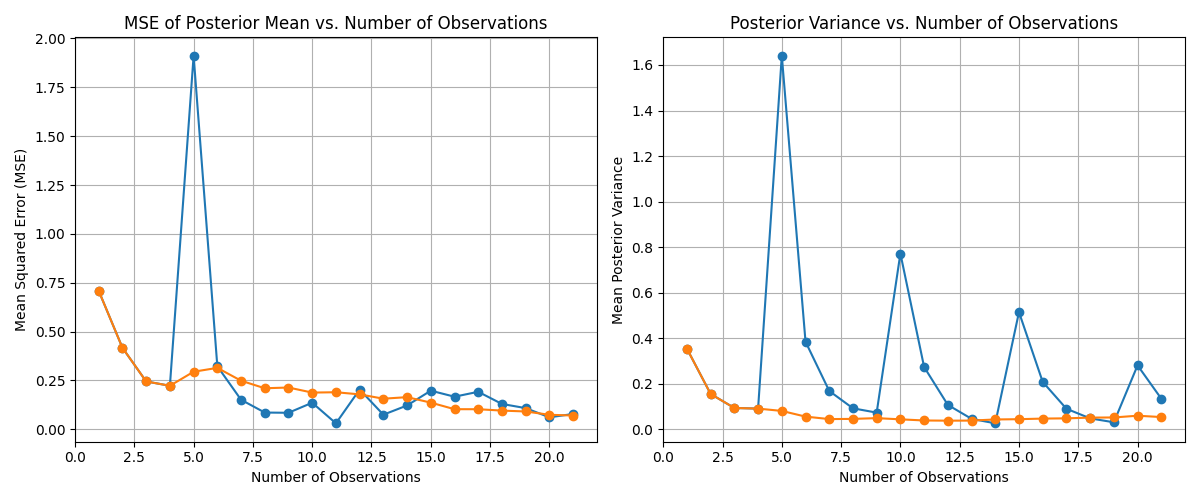
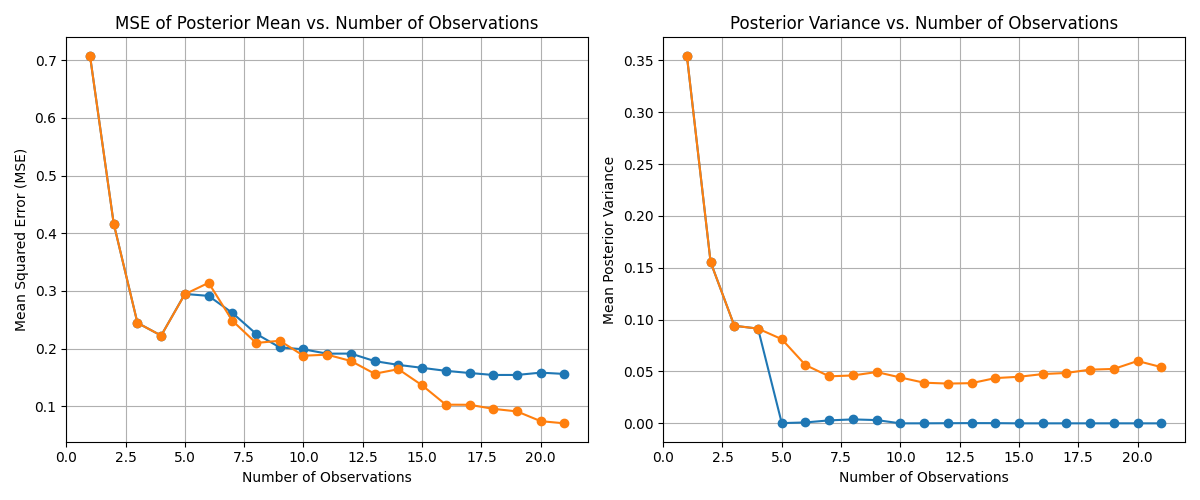
play

diff --git a/bayes/posterior.py b/bayes/posterior.py
@@ -3,6 +3,7 @@ import jax.numpy as jnp
 from jax import grad, jit, vmap, value_and_grad
 from functools import partial
 # jax.config.update("jax_debug_nans", True)
+# jax.config.update('jax_disable_jit', True)
 
 import flax.linen as nn
 import optax
@@ -12,6 +13,7 @@ from sinterp.interpolants import (
     Interpolator, 
     OneSidedLinear)
 from sinterp.stochasticfield import OneSidedField
+from sinterp.losses import make_loss_b
 from flow import flow
 from bayes.distribution import Gaussian, FlowDistribution
 from sinterp.couplings import EMDCoupling
@@ -125,21 +127,20 @@ class FlowBasedPosterior(FlowDistribution):
         # our bayesian update
         return s_prior_t + guidance_strength * clipped_s_likelihood_1
 
-    def get_current_flow(self):
+    def get_current_flow(self, params, use_prior=False):
         """
         Constructs the flow object with the appropriate velocity field.
         If observations are present, it uses a guided velocity field.
         """
-        if not self.observation_buffer:
+        if (not self.observation_buffer) or use_prior:
             # Unconditional case: just use the model's learned velocity b
-            b_velocity_fn = lambda x, t: self.model.get_velocity_b(self.vel_params, x, t)
+            b_velocity_fn = lambda x, t: self.model.get_velocity_b(params, x, t)
         else:
             # Guided case: construct the guided velocity b_guided
             total_log_likelihood_grad_fn, y_data = self.build_total_log_likelihood_and_grad(self.observation_buffer)
 
             def b_guided_velocity_fn(x, t):
                 # For sampling, we always use the current, live parameters
-                params = self.vel_params
                 
                 # Get the deterministic part of the velocity, v(t,x)
                 v_velocity = self.model.get_velocity_v(params, x, t)
@@ -162,15 +163,17 @@ class FlowBasedPosterior(FlowDistribution):
         f = flow.Flow(b_velocity_fn, self.n_steps)
         return f
 
-    def sample(self, key, x0_samples=None):
-        f = self.get_current_flow()
+    def sample(self, key, x0_samples=None, params=None, use_prior=False):
+        if params is None:
+            params = self.vel_params
+        f = self.get_current_flow(params, use_prior)
         if x0_samples is None:
             x0_samples = self.base_distribution.sample(key)
         x1_samples = f.forward(x0_samples)
         return x1_samples
-    
+
     def log_prob(self, x1):
-        f = self.get_current_flow()
+        f = self.get_current_flow(self.vel_params)
         x0 = f.backward(x1)
         log_p_x0 = self.base_distribution.log_prob(x0)
         log_p_x1, _ = f.push_forward_log_prob(log_p_x0, x0)
@@ -192,31 +195,38 @@ class FlowBasedPosterior(FlowDistribution):
         # Use frozen parameters for calculating the target
         frozen_params = jax.lax.stop_gradient(self.vel_params)
 
+        # def loss_fn(vel_params, x0_batch, x1_batch, z_batch, t_batch, y_data_arg):
+        #     """
+        #     We are not doing stochastic interpolation training as usual.
+        #     We simply want to force the current score to include the observed data.
+        #     To Bayesian update via posterior_score = prior_score + likelihood_score.  
+        #     """
+
+        #     # alternative ways to do this.
+        #     # step in direction of likelihood. but also say within a trust region?
+            
+        #     xt_batch = vmap(self.interpolator)(x0_batch, x1_batch, z_batch, t_batch)
+            
+        #     # The score predicted by the current trainable parameters
+        #     pred_score = vmap(self.model.get_score_s, in_axes=(None, 0, 0))(vel_params, xt_batch, t_batch)
+
+        #     # The target score is now calculated cleanly using our helper method
+        #     # We use the frozen_params here to define a stable target.
+        #     target_score = vmap(self._get_target_score, in_axes=(None, 0, 0, None, None, None))(
+        #         frozen_params, xt_batch, t_batch, total_log_likelihood_grad_fn, y_data_arg, guidance_strength
+        #     )
+            
+        #     # The loss is the difference between the predicted score and the (fixed) target score
+        #     return jnp.mean((pred_score - jax.lax.stop_gradient(target_score))**2)
+
+        loss_b = make_loss_b(self.interpolator, self.model.get_velocity_v)
         def loss_fn(vel_params, x0_batch, x1_batch, z_batch, t_batch, y_data_arg):
             """
-            We are not doing stochastic interpolation training as usual.
-            We simply want to force the current score to include the observed data.
-            To Bayesian update via posterior_score = prior_score + likelihood_score.  
+            We can sample from the posterior using our non-parametric estimate.
+            We want to match our current prior flow to this non-parametric posterior.
             """
+            return jnp.mean(vmap(loss_b, in_axes=(None, 0, 0, 0, 0))(vel_params, x0_batch, x1_batch, z_batch, t_batch))
 
-            # alternative ways to do this.
-            # step in direction of likelihood. but also say within a trust region?
-            
-            xt_batch = vmap(self.interpolator)(x0_batch, x1_batch, z_batch, t_batch)
-            
-            # The score predicted by the current trainable parameters
-            pred_score = vmap(self.model.get_score_s, in_axes=(None, 0, 0))(vel_params, xt_batch, t_batch)
-
-            # The target score is now calculated cleanly using our helper method
-            # We use the frozen_params here to define a stable target.
-            target_score = vmap(self._get_target_score, in_axes=(None, 0, 0, None, None, None))(
-                frozen_params, xt_batch, t_batch, total_log_likelihood_grad_fn, y_data_arg, guidance_strength
-            )
-            
-            # The loss is the difference between the predicted score and the (fixed) target score
-            return jnp.mean((pred_score - jax.lax.stop_gradient(target_score))**2)
-
-        # The train_step and training loop remain the same...
         @jit
         def train_step(vel_params, opt, x0, x1, z, t, y_data_arg):
             (loss, (g,)) = value_and_grad(loss_fn, argnums=(0,))(vel_params, x0, x1, z, t, y_data_arg)
@@ -227,15 +237,19 @@ class FlowBasedPosterior(FlowDistribution):
 
         for step in range(self.num_train_steps):
             # ... (batch creation logic) ...
-            # use our own flow to couple the distributions
             batch_x0 = jax.random.normal(self.key_manager.split(), shape=(batch_size, self.dim))
-            batch_x1 = vmap(self.sample, in_axes=(None, 0))(self.key_manager.split(), batch_x0)
+            
+            # BUG for loss_b we should be sampling from the frozen prior + parametric score
+            batch_x1 = vmap(self.sample, in_axes=(None, 0, None, None))(self.key_manager.split(), batch_x0, frozen_params, False)            
+            # for score_matching_loss_fn we should be sampling from
+            # batch_x1 = vmap(self.sample, in_axes=(None, 0, None, None))(self.key_manager.split(), batch_x0, frozen_params, True)
+            # coupling
+            # use our own flow to couple the distributions p(x0, x1) = p(x1 | x0)p(x0)!
+            # could use OT coupling 
+            # batch_x0, batch_x1 = self.coupling(self.key_manager.split(), batch_x0, batch_x1)
 
             batch_z = jax.random.normal(self.key_manager.split(), shape=(batch_size, self.dim))
             batch_t = jax.random.uniform(self.key_manager.split(), shape=(batch_size,), minval=epsilon, maxval=1.0 - epsilon)
-
-            # OT coupling
-            # batch_x0, batch_x1 = self.coupling(self.key_manager.split(), batch_x0, batch_x1)
 
             self.vel_params, self.opt_state, loss = train_step(
                 self.vel_params, self.opt_state,
